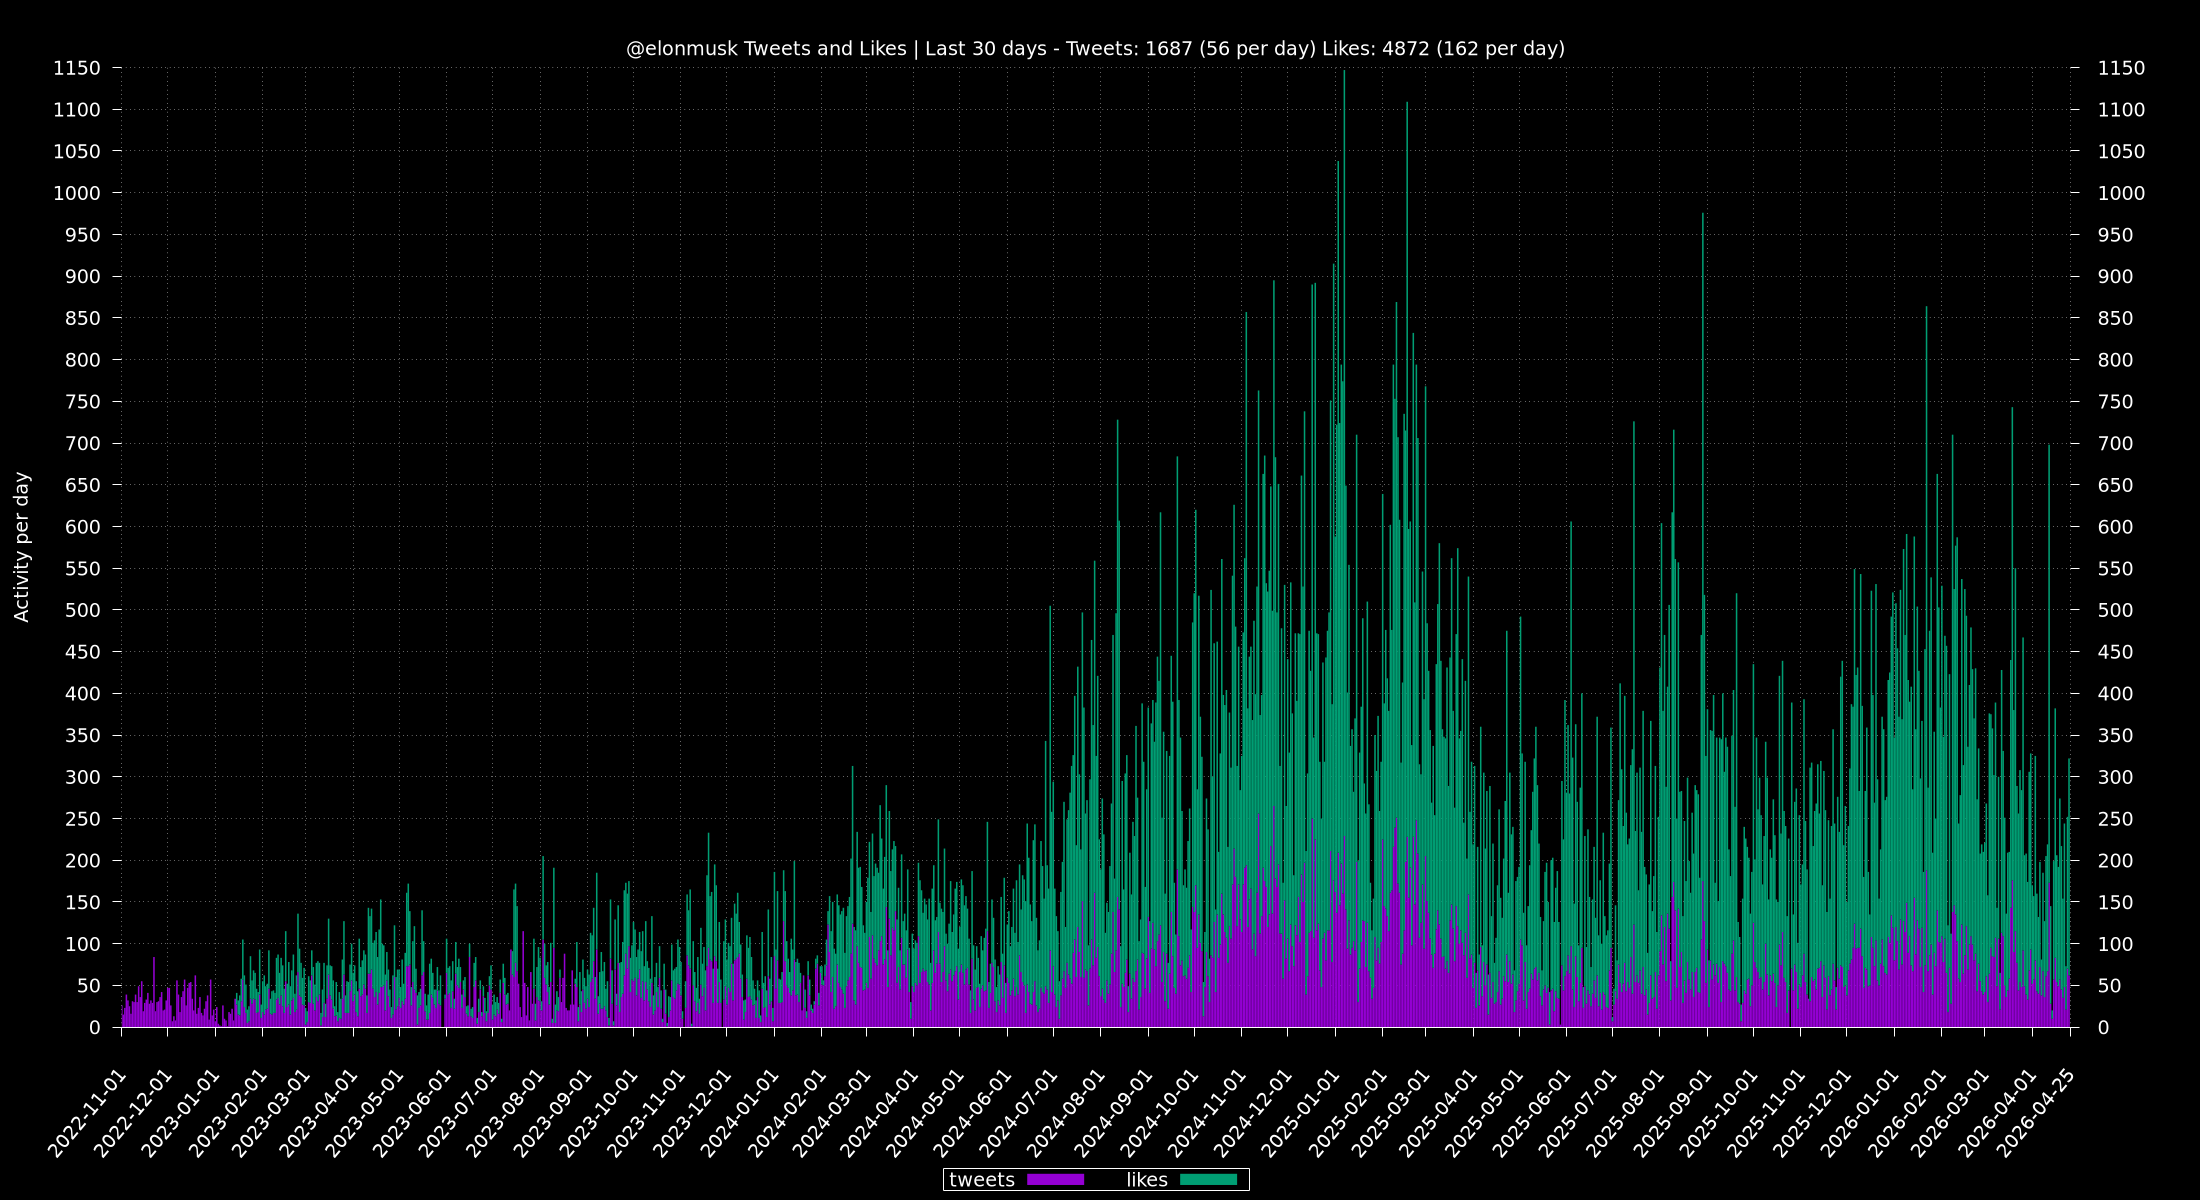
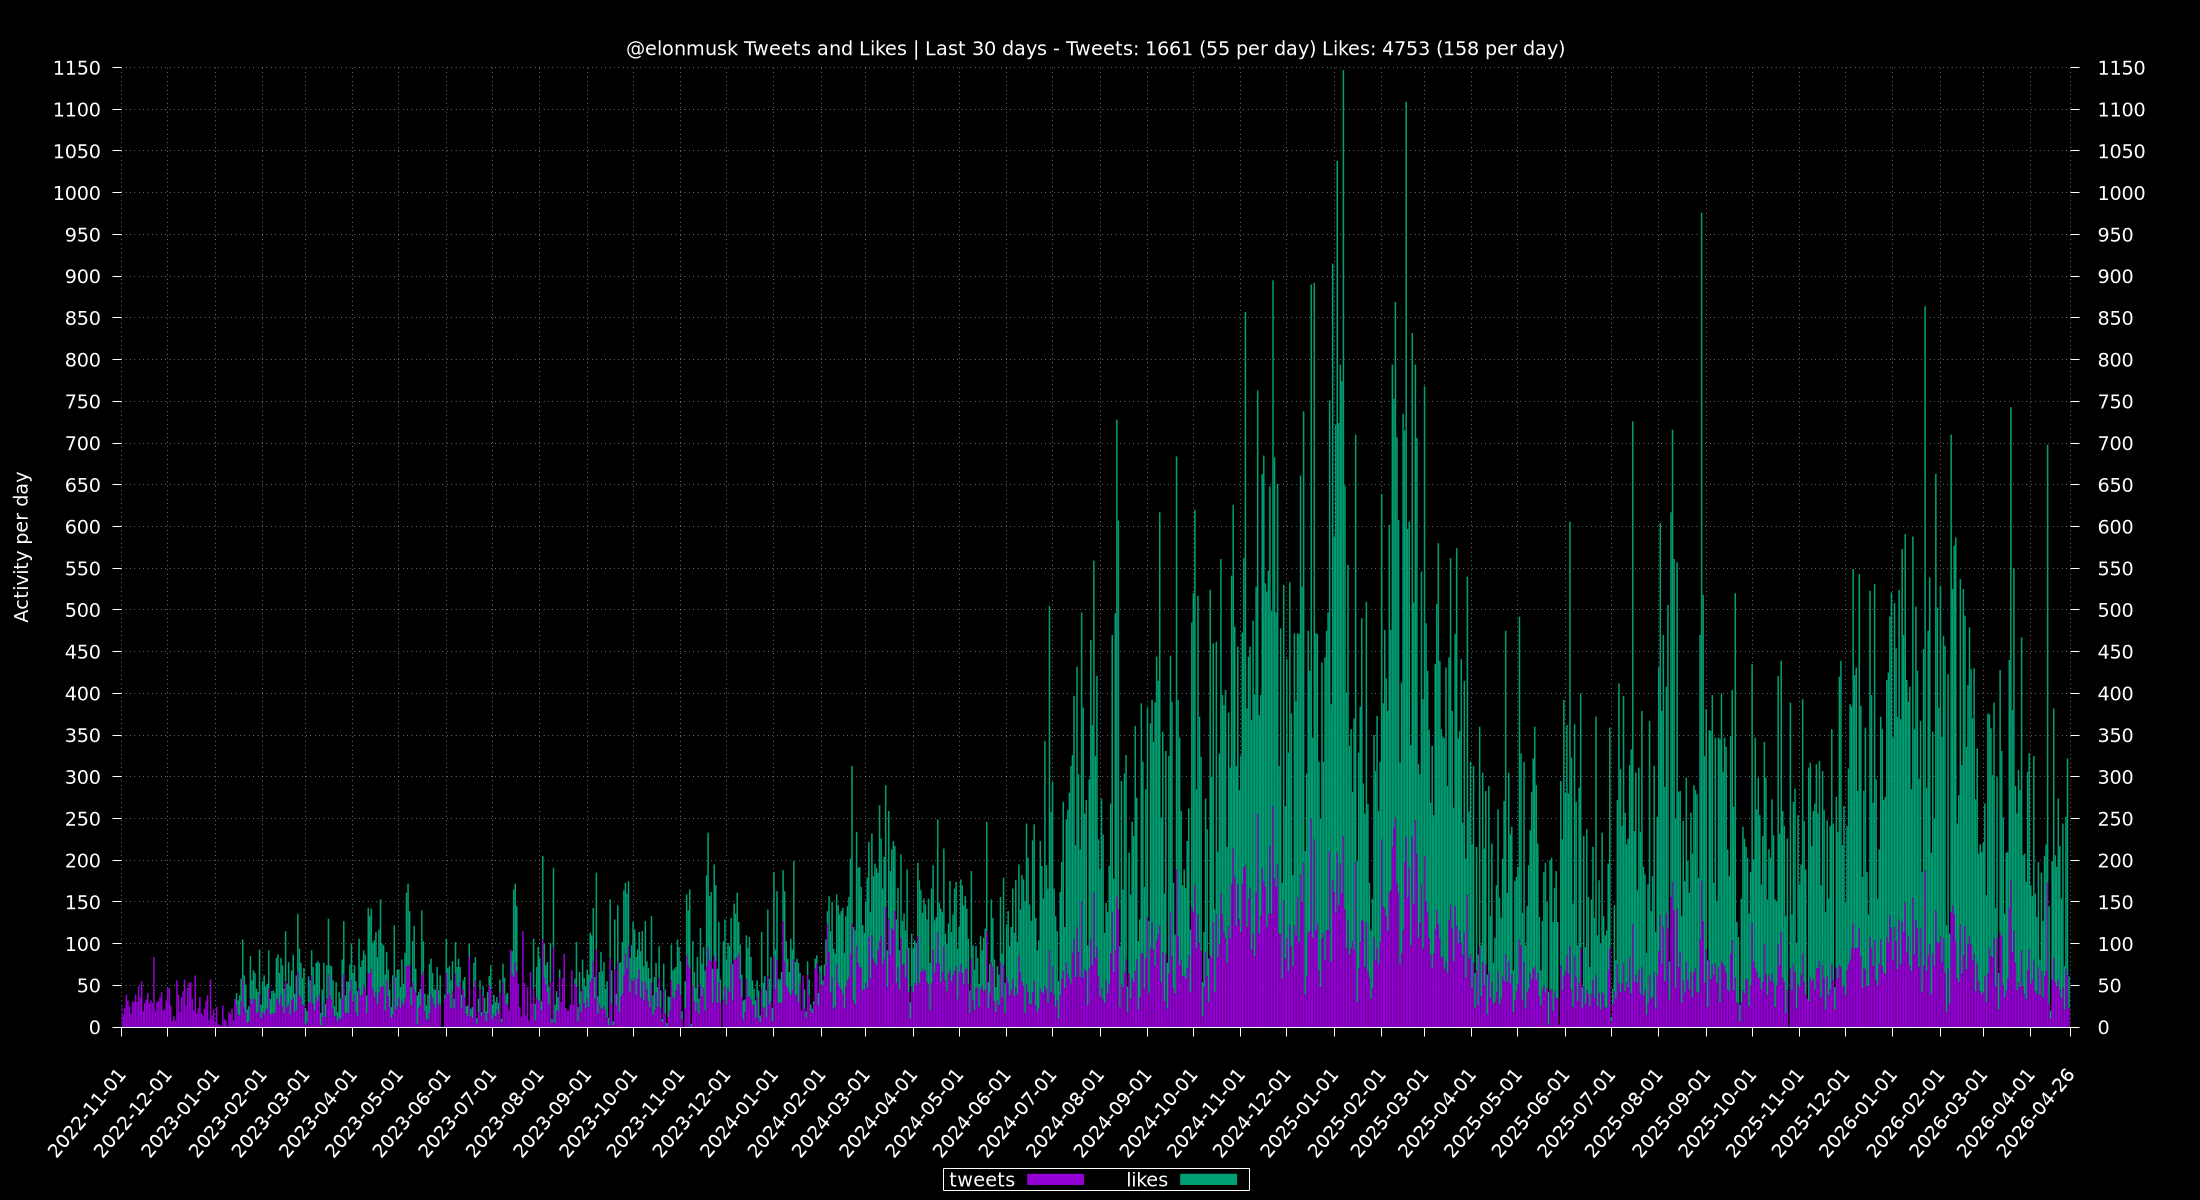
update via cron

diff --git a/totals/README.md b/totals/README.md
@@ -1,6 +1,6 @@
 ## Last 30 Days
-Tweets: 1779 (57 per day)\
-Likes: 5247 (169 per day)
+Tweets: 1710 (55 per day)\
+Likes: 4910 (158 per day)
 
 ## 24 Hours
 Max: [**341**](../misc/most-tweets_24-hr.csv) - From `2024-11-23 14:29:53 CST` To `2024-11-24 14:28:44 CST`